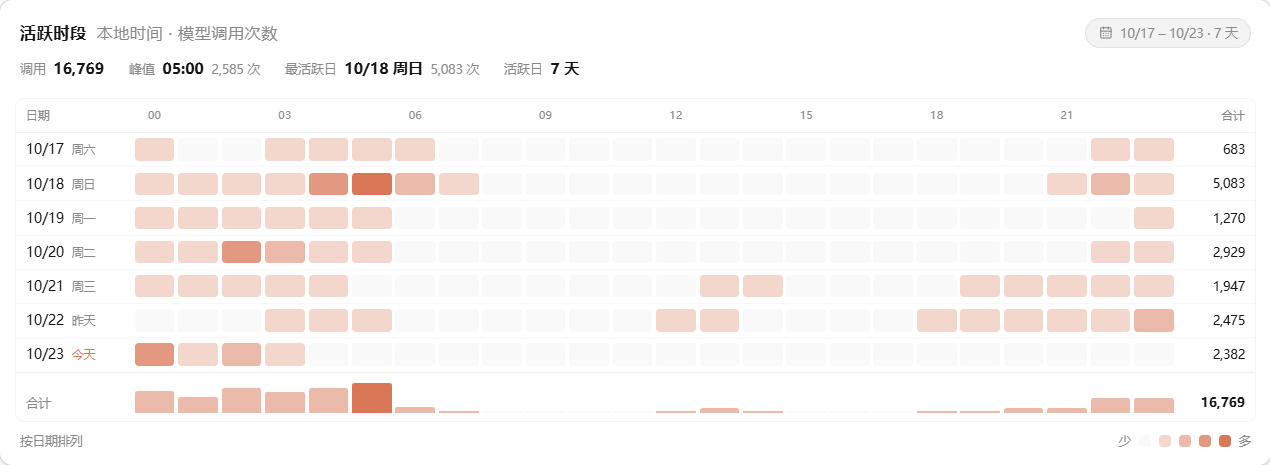
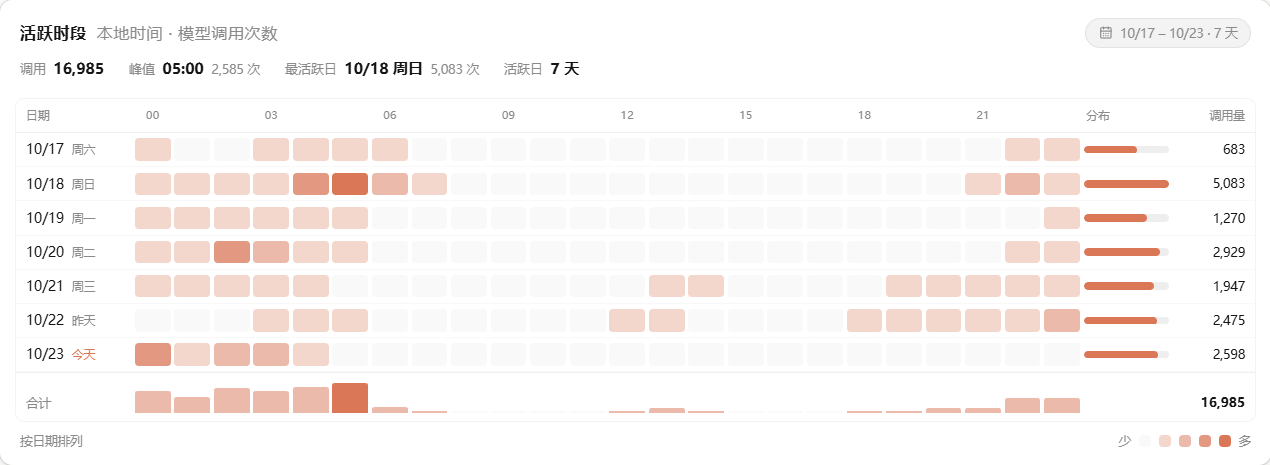
feat: 活跃时段内置调用量条与分步展开 (0.4.4)

diff --git a/src/App.tsx b/src/App.tsx
@@ -1,7 +1,6 @@
 import { useEffect, useMemo, useRef, useState } from "react";
 import type {
   AgentStat,
-  DailyActivityPoint,
   ErrorStats,
   HeatCell,
   LatencyStat,
@@ -40,7 +39,6 @@ import { TitleBar } from "./components/TitleBar";
 import { ToolStatsPanel } from "./components/ToolStatsPanel";
 import { TrendChart } from "./components/TrendChart";
 import { WasteRankPanel } from "./components/WasteRankPanel";
-import { YearCalendar } from "./components/YearCalendar";
 import { getThemeMode, setThemeMode, type ThemeMode } from "./theme";
 import {
   ChartNoAxesColumn,
@@ -146,7 +144,6 @@ export default function App() {
   const [errors, setErrors] = useState<ErrorStats | null>(null);
   const [latency, setLatency] = useState<LatencyStat[]>([]);
   const [activity, setActivity] = useState<HeatCell[]>([]);
-  const [activityDaily, setActivityDaily] = useState<DailyActivityPoint[]>([]);
   const [monthlyTrend, setMonthlyTrend] = useState<MonthPoint[]>([]);
   const [reloadKey, setReloadKey] = useState(0);
   const [refreshSec, setRefreshSecState] = useState<number>(getRefreshSec);
@@ -308,7 +305,6 @@ export default function App() {
             setErrors(d.errors);
             setLatency(d.latency);
             setActivity(d.activity);
-            setActivityDaily(d.activityDaily);
             setMonthlyTrend(d.monthlyTrend);
             setSources(d.sources);
             setCapabilities(d.capabilities);
@@ -492,7 +488,6 @@ export default function App() {
                       customFrom={rangeState.customFrom}
                       customTo={rangeState.customTo}
                     />
-                    <YearCalendar points={activityDaily} />
                     <AgentStatsPanel stats={agents} />
                     <WasteRankPanel projects={projects} models={models} providers={providers} />
                   </div>

diff --git a/src/api.ts b/src/api.ts
@@ -1,7 +1,6 @@
 import { invoke } from "@tauri-apps/api/core";
 import type {
   AgentStat,
-  DailyActivityPoint,
   DashboardPayload,
   ErrorStats,
   HeatCell,
@@ -28,7 +27,7 @@ export interface Range {
 
 // 数据查询走 Tauri invoke(Rust + rusqlite 只读直查),不再有 HTTP 后端
 export const api = {
-  // 一次刷新只打一个命令:14 组面板数据在同一个数据库快照里返回
+  // 一次刷新只打一个命令:13 组面板数据在同一个数据库快照里返回
   // source: "all" | "zcode" | "dsh"；缺省全部
   dashboard: (range: Range, source: SourceFilter = "all") =>
     invoke<DashboardPayload>("get_dashboard", { range, source }),
@@ -50,7 +49,6 @@ export const api = {
   errors: (range: Range) => invoke<ErrorStats>("get_errors", { range }),
   latency: (range: Range) => invoke<LatencyStat[]>("get_latency", { range }),
   activity: (range: Range) => invoke<HeatCell[]>("get_activity", { range }),
-  activityDaily: (range: Range) => invoke<DailyActivityPoint[]>("get_activity_daily", { range }),
   monthlyTrend: (range: Range) => invoke<MonthPoint[]>("get_monthly_trend", { range }),
   pricing: () => invoke<PricingConfig>("get_pricing"),
   savePricing: (config: PricingConfig) => invoke<PricingConfig>("save_pricing", { config }),

diff --git a/shared/types.ts b/shared/types.ts
@@ -280,7 +280,6 @@ export interface DashboardPayload {
   errors: ErrorStats;
   latency: LatencyStat[];
   activity: HeatCell[];
-  activityDaily: DailyActivityPoint[];
   monthlyTrend: MonthPoint[];
   /** 各数据源状态；某源不可用时前端置灰并提示 */
   sources: SourceStatus[];
@@ -366,13 +365,6 @@ export interface HeatCell {
   /** 0-23,本地时间 */
   hour: number;
   calls: number;
-}
-
-/** 按天活跃点(12 月日历用);day 格式 "YYYY-MM-DD",含全部状态 */
-export interface DailyActivityPoint {
-  day: string;
-  calls: number;
-  outputTokens: number;
 }
 
 /** 月粒度趋势点;bucket 格式 "YYYY-MM" */

diff --git a/src/styles.css b/src/styles.css
@@ -942,6 +942,14 @@ th.num {
   transform-origin: bottom;
   animation: heat-bar-in 460ms var(--cds-ease-out-expo) both;
 }
+@keyframes heat-volume-grow {
+  from { transform: scaleX(0); }
+  to { transform: scaleX(1); }
+}
+.heat-volume {
+  transform-origin: left;
+  animation: heat-volume-grow 520ms var(--cds-ease-out-expo) both;
+}
 .heat-cell {
   transition:
     transform 150ms var(--cds-ease-out-expo),

diff --git a/src-tauri/src/lib.rs b/src-tauri/src/lib.rs
@@ -106,7 +106,7 @@ impl Inner {
     }
 
     /// 一次查询返回仪表盘需要的全部数据；同步实现，由命令层放到阻塞线程池执行。
-    /// 14 条查询各自独立只读连接并行跑；连接由统一查询层创建（视图已按 source 过滤）。
+    /// 13 条查询各自独立只读连接并行跑；连接由统一查询层创建（视图已按 source 过滤）。
     fn query_dashboard(
         &self,
         range: &types::Range,
@@ -115,15 +115,15 @@ impl Inner {
         let dsh_stats = self.ensure_dsh(false);
         let p = &self.pricing_path;
         let names = self.provider_names();
-        let mut conns = Vec::with_capacity(14);
-        for _ in 0..14 {
+        let mut conns = Vec::with_capacity(13);
+        for _ in 0..13 {
             conns.push(self.query_conn(filter)?);
         }
         // 每条查询独占一个连接：Connection 不是 Sync，必须 move 进各自线程
-        let [c0, c1, c2, c3, c4, c5, c6, c7, c8, c9, c10, c11, c12, c13] =
-            <[rusqlite::Connection; 14]>::try_from(conns).expect("连接数固定为 14");
+        let [c0, c1, c2, c3, c4, c5, c6, c7, c8, c9, c10, c11, c12] =
+            <[rusqlite::Connection; 13]>::try_from(conns).expect("连接数固定为 13");
 
-        let (summary, trend, model_trend, provider_trend, models, projects, providers, tools, agents, errors, latency, activity, activity_daily, monthly_trend) =
+        let (summary, trend, model_trend, provider_trend, models, projects, providers, tools, agents, errors, latency, activity, monthly_trend) =
             std::thread::scope(|s| -> Result<_, AppError> {
                 let summary = s.spawn(move || queries::get_summary(&c0, range, p));
                 let trend = s.spawn(move || queries::get_trend(&c1, range, p));
@@ -137,8 +137,7 @@ impl Inner {
                 let errors = s.spawn(move || queries::get_error_stats(&c9, range));
                 let latency = s.spawn(move || queries::get_latency_stats(&c10, range));
                 let activity = s.spawn(move || queries::get_activity_heatmap(&c11, range));
-                let activity_daily = s.spawn(move || queries::get_activity_daily(&c12, range));
-                let monthly_trend = s.spawn(move || queries::get_monthly_trend(&c13, range, p));
+                let monthly_trend = s.spawn(move || queries::get_monthly_trend(&c12, range, p));
 
                 Ok((
                     join_query("summary", summary.join())?,
@@ -153,7 +152,6 @@ impl Inner {
                     join_query("errors", errors.join())?,
                     join_query("latency", latency.join())?,
                     join_query("activity", activity.join())?,
-                    join_query("activity_daily", activity_daily.join())?,
                     join_query("monthly_trend", monthly_trend.join())?,
                 ))
             })?;
@@ -171,7 +169,6 @@ impl Inner {
             errors,
             latency,
             activity,
-            activity_daily,
             monthly_trend,
             sources: self.source_statuses(&dsh_stats),
             capabilities: if filter.includes(sources::SourceId::Dsh) {
@@ -198,7 +195,7 @@ fn join_query<T>(
         .and_then(|v| v.map_err(AppError::from))
 }
 
-/// 一次刷新只走一个命令：14 个查询在同一个阻塞任务里跑完，避免 14 次 IPC 往返。
+/// 一次刷新只走一个命令：13 个查询在同一个阻塞任务里跑完，避免 13 次 IPC 往返。
 #[tauri::command]
 async fn get_dashboard(
     state: tauri::State<'_, AppState>,
@@ -261,12 +258,6 @@ async fn get_models(
 fn get_agents(state: tauri::State<AppState>, range: types::Range) -> Result<Vec<types::AgentStat>, String> {
     let conn = state.conn()?;
     queries::get_agent_stats(&conn, &range).map_err(|e| e.to_string())
-}
-
-#[tauri::command]
-fn get_activity_daily(state: tauri::State<AppState>, range: types::Range) -> Result<Vec<types::DailyActivityPoint>, String> {
-    let conn = state.conn()?;
-    queries::get_activity_daily(&conn, &range).map_err(|e| e.to_string())
 }
 
 #[tauri::command]
@@ -710,7 +701,6 @@ pub fn run() {
             get_trend_by_provider,
             get_models,
             get_agents,
-            get_activity_daily,
             get_monthly_trend,
             get_projects,
             get_providers,

diff --git a/src-tauri/src/queries.rs b/src-tauri/src/queries.rs
@@ -1546,35 +1546,6 @@ pub fn get_activity_heatmap(conn: &Connection, range: &Range) -> rusqlite::Resul
     Ok(rows)
 }
 
-/// 按天活跃(12 月日历用):日期 + 调用次数 + 输出 tokens,含所有状态(反映活跃度而非成功量)
-pub fn get_activity_daily(conn: &Connection, range: &Range) -> rusqlite::Result<Vec<DailyActivityPoint>> {
-    let (conds, params) = range_conds("mu.started_at", range);
-    let where_sql = if conds.is_empty() {
-        String::new()
-    } else {
-        format!("WHERE {}", conds.join(" AND "))
-    };
-    query_rows(
-        conn,
-        &format!(
-            "SELECT date(mu.started_at/1000, 'unixepoch', 'localtime') AS day,
-                    COUNT(*) AS calls,
-                    SUM(mu.output_tokens) AS outputTokens
-             FROM model_usage mu {where_sql}
-             GROUP BY day
-             ORDER BY day"
-        ),
-        &params,
-        |r| {
-            Ok(DailyActivityPoint {
-                day: r.get(0)?,
-                calls: r.get(1)?,
-                output_tokens: r.get::<_, Option<i64>>(2)?.unwrap_or(0),
-            })
-        },
-    )
-}
-
 /// 月粒度趋势:月分桶 + 按模型折算费用,模式同 get_trend(含两种加权速度)
 pub fn get_monthly_trend(conn: &Connection, range: &Range, pricing_path: &std::path::Path) -> rusqlite::Result<Vec<MonthPoint>> {
     let (rows, _params) = bucket_model_rows(

diff --git a/src-tauri/src/types.rs b/src-tauri/src/types.rs
@@ -461,15 +461,6 @@ pub struct HeatCell {
     pub calls: i64,
 }
 
-/// 按天活跃点(12 月日历用);day 格式 "YYYY-MM-DD",含全部状态
-#[derive(Debug, Serialize)]
-#[serde(rename_all = "camelCase")]
-pub struct DailyActivityPoint {
-    pub day: String,
-    pub calls: i64,
-    pub output_tokens: i64,
-}
-
 /// 月粒度趋势点;bucket 格式 "YYYY-MM"
 #[derive(Debug, Serialize)]
 #[serde(rename_all = "camelCase")]
@@ -486,7 +477,7 @@ pub struct MonthPoint {
 }
 
 /// 仪表盘一次性返回的全部数据：一次 IPC、一个数据库快照，
-/// 避免 14 个命令各查一遍导致同一屏里的数字来自不同时刻。
+/// 避免 13 个命令各查一遍导致同一屏里的数字来自不同时刻。
 #[derive(Debug, Serialize)]
 #[serde(rename_all = "camelCase")]
 pub struct DashboardPayload {
@@ -502,7 +493,6 @@ pub struct DashboardPayload {
     pub errors: ErrorStats,
     pub latency: Vec<LatencyStat>,
     pub activity: Vec<HeatCell>,
-    pub activity_daily: Vec<DailyActivityPoint>,
     pub monthly_trend: Vec<MonthPoint>,
     /// 各数据源的可用性 / 新鲜度；某个源不可用时前端置灰并提示
     pub sources: Vec<SourceStatus>,
